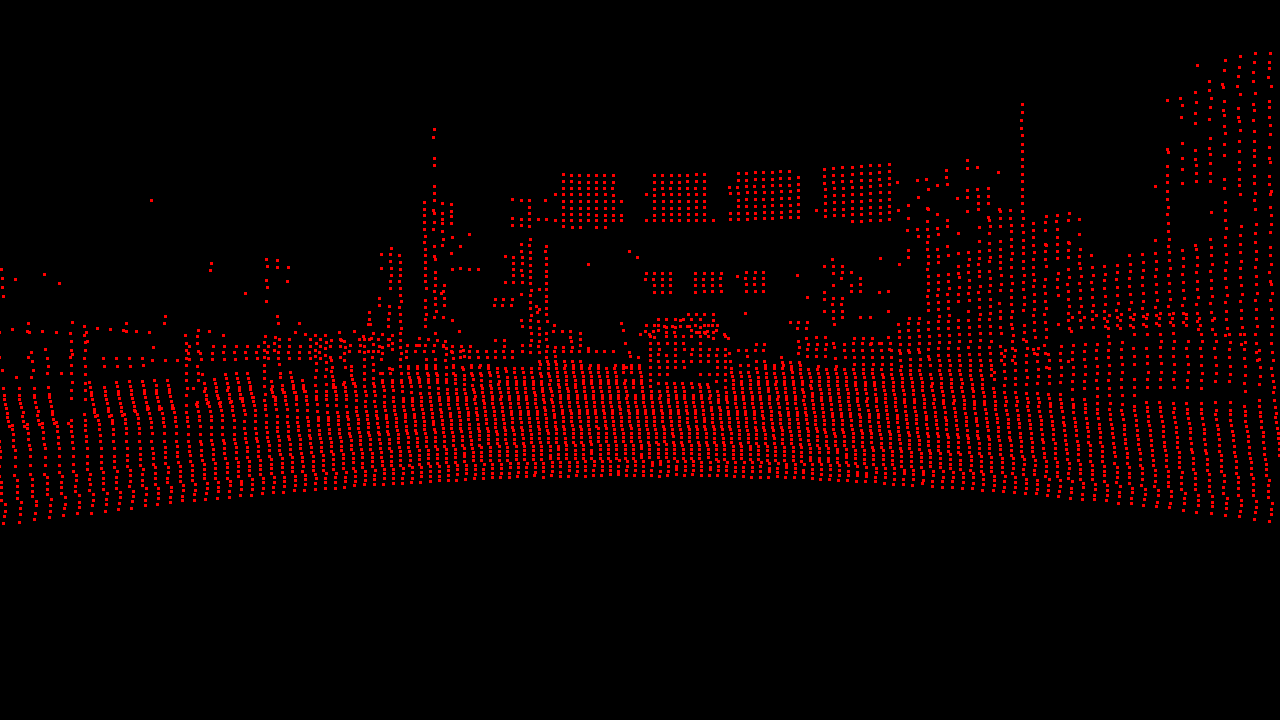
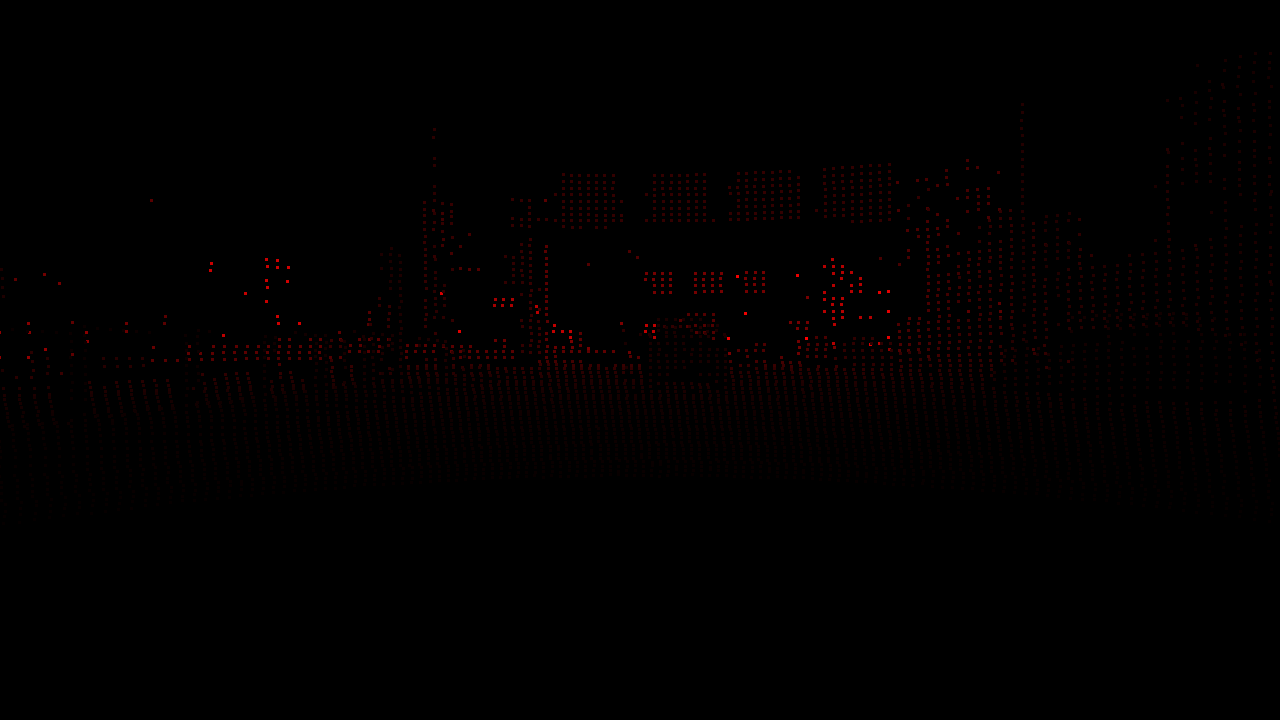
Improvements for densification.

diff --git a/main.py b/main.py
@@ -1,8 +1,22 @@
 import cv2
 import numpy as np
 from pyntcloud import PyntCloud
+import png
 
 import utils, kitti_utils, rellis_utils
+
+
+def save_img(output_path, img):
+        with open(output_path, 'wb') as f:
+            depth_image = (img * 256).astype(np.uint16)
+
+            # pypng is used because cv2 cannot 
+            # save images in uint16 format
+            writer = png.Writer(width=depth_image.shape[1],
+                                height=depth_image.shape[0],
+                                bitdepth=16,
+                                greyscale=False)
+            writer.write(f, depth_image)
 
 
 def main(img_path, pc_path, pc_type, homogeneous=True, is_kitti=False):
@@ -71,7 +85,7 @@ def main(img_path, pc_path, pc_type, homogeneous=True, is_kitti=False):
     dummy_img = np.zeros_like(img)
 
     # display projection on image
-    depth_max = np.max(pc[:, 0])
+    depth_max = np.max(pc[0, :])
 
     for (idx, i) in enumerate(projected_points):
 
@@ -81,7 +95,7 @@ def main(img_path, pc_path, pc_type, homogeneous=True, is_kitti=False):
     cv2.imshow("Projected Points", dummy_img)
     cv2.waitKey(0)
     cv2.imwrite("outputs/projected_raw/proj_pc_raw.png", dummy_img)
-
+    #save_img("outputs/projected_raw/proj_pc_raw.png", dummy_img)
 
 if __name__ == '__main__':
     
@@ -89,3 +103,7 @@ if __name__ == '__main__':
     pc_path="assets/leaf_test.pcd"
     
     main(img_path, pc_path, "pcd", is_kitti=False)
+
+    #TODO: 1. save it as uint16 properly
+    #TODO: 2. use smaller points for point cloud (make it close to kitti example projections)
+    #TODO: 3. scale depth properly (check with example bin - print values - think trough calc.)
